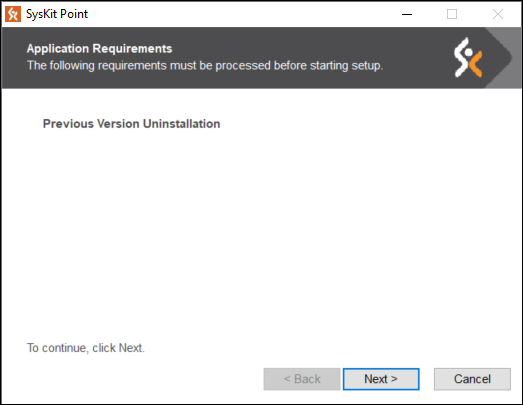
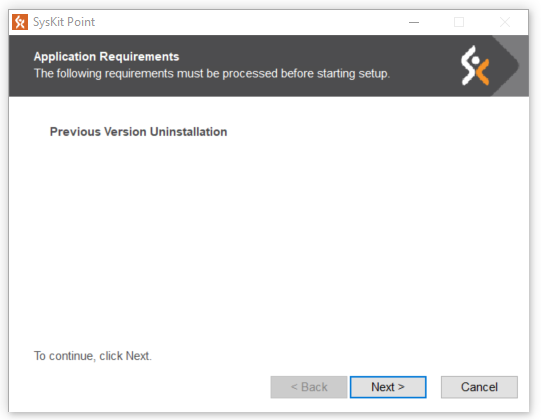
GitBook: [v12_1] one page and 2 assets modified

Changed region(s): [[0.0, 0.0, 1.0, 1.0], [0.0612, 0.8296, 0.2753, 0.8889], [0.0612, 0.2963, 0.4283, 0.3259]]

diff --git a/how-to/upgrade-syskit-point-to-a-new-version.md b/how-to/upgrade-syskit-point-to-a-new-version.md
@@ -33,7 +33,7 @@ If you **don't want to see** a popup **message** about the **new updates** anymo
 *  Unpack and run the setup file - **SysKitPointSetup.exe** on the same server where previous version was installed.
 * The wizard will require to uninstall the previous version of SysKit Point. 
 
-![Previous version uninstallation](../.gitbook/assets/upgrade-syskit-point-to-a-new-version_previous-version-uninstallation.png)
+![Previous version uninstallation massage](../.gitbook/assets/upgrade-syskit-point-to-a-new-version_previous-version-uninstallation%20%281%29.png)
 
 * Follow the wizard through the installation steps. For more information click [here](../installation-and-configuration/install-syskit-point.md).
 * After completing the installation, the **Configuration Wizard** will open by default.
